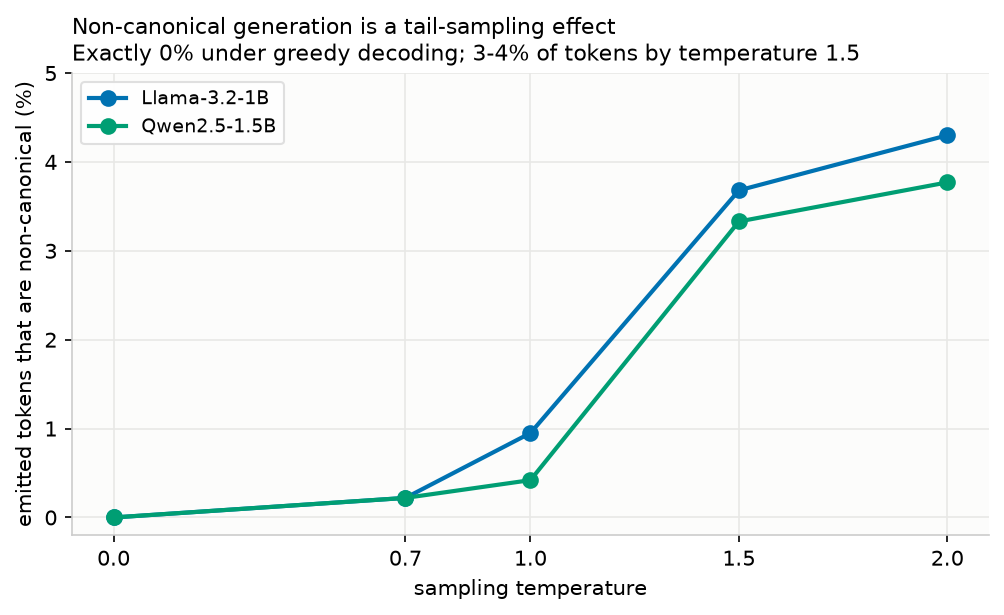
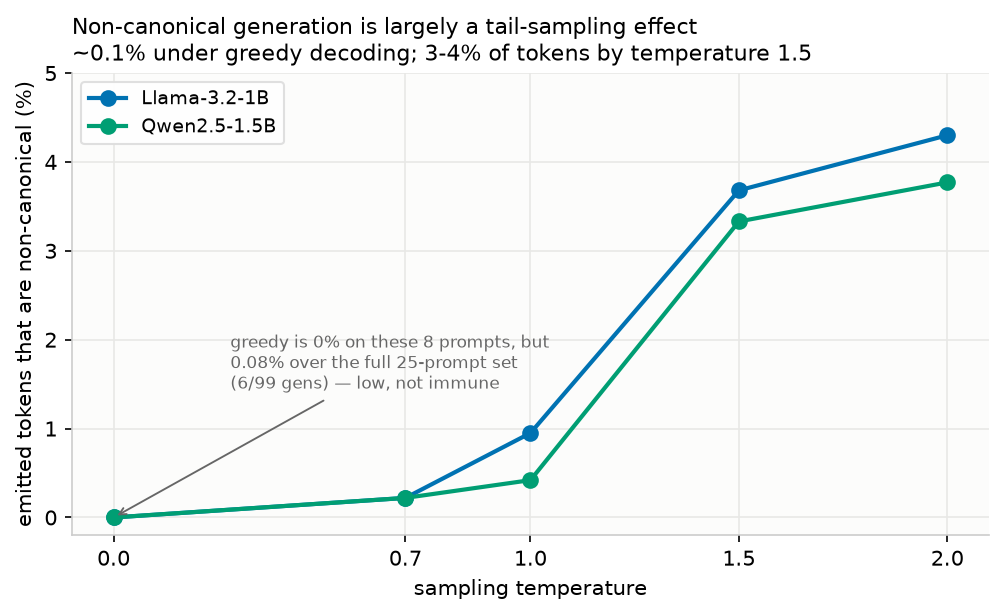
Greedy decoding is 0.08%, not 0%; resolve the conflicting records
Three of the open questions from the review are now settled by measurement
rather than by choosing between two versions of a record.

**"Exactly 0% under greedy decoding" was wrong.** That reading came from an
8-prompt subset (code[:4] + multilingual_latin[:4]), 1 deterministic generation
each, 2 models. Greedy is deterministic, so more samples cannot add evidence
there; only more prompts can. Re-run at argmax over the full 25-prompt set:
6 of 99 generations contain a non-canonical span, 0.08% of tokens pooled
(GPT-2 0.12%, Qwen 0.09%, Llama-3.2-1B 0.08%, Llama-3.2-3B 0.05%). The old
subset had no arithmetic prompts at all, which is exactly where GPT-2's greedy
hits are. Temperature still dominates (0.08% -> 0.4-1.0% -> 3-4%) but buys about
an order of magnitude, not immunity. Records published under greedy/ in the HF
dataset; the temperature figure now carries an annotation so its 0.0 points are
not read as a true zero.

phase2_probe hardcoded do_sample=True, so temperature 0 was unreachable. It now
branches explicitly and forces one generation per prompt when greedy.

**The width-sweep conflict is resolved against the published checkpoints.**
Re-evaluating them reproduces the appendix table row-for-row (dim=24 one-step
100% / direct 1.9%; dim=32 59.1% / 3.4%; dim=64 100% / 97.7%), so the go/no-go
section is undertrained and now marked superseded. Its "dim=64 direct-merged =
1%" claim does not hold — direct-merged is 97.7% there, which is why the claim
[…]

diff --git a/retok/figures.py b/retok/figures.py
@@ -191,7 +191,15 @@ def plot_scale_ladder(out_path: Path) -> None:
     print(f"Wrote {out_path}")
 
 
-# Temperature sweep (code+multilingual prompts, 48 gens/cell). See RESULTS.md.
+# Temperature sweep (code+multilingual prompts, 48 gens/cell; the temp-0 cell is
+# 8 deterministic gens, since greedy repeats). See RESULTS.md.
+#
+# NOTE the temp-0 zeros below are subset-limited, not a true zero: re-running
+# greedy over the full 25-prompt set finds 0.08% pooled across four models
+# (RESULTS.md, "Greedy decoding is NOT 0%"). The 8-prompt sweep set contains no
+# arithmetic prompts, which is where GPT-2's greedy hits are. Kept as measured
+# so this curve stays one internally-consistent experiment; the annotation on
+# the plot carries the correction.
 PHASE2_TEMPS = [0.0, 0.7, 1.0, 1.5, 2.0]
 # CONTROLLED (pure sampling). Per-generation here is fine: it's a within-model
 # comparison at FIXED generation length, so the length-saturation problem that
@@ -224,10 +232,21 @@ def plot_temperature(out_path: Path) -> None:
     ax.set_ylabel("emitted tokens that are non-canonical (%)")
     ax.set_ylim(-0.2, 5.0)
     ax.set_title(
-        "Non-canonical generation is a tail-sampling effect\n"
-        "Exactly 0% under greedy decoding; 3-4% of tokens by temperature 1.5",
+        "Non-canonical generation is largely a tail-sampling effect\n"
+        "~0.1% under greedy decoding; 3-4% of tokens by temperature 1.5",
         fontsize=10.5,
         loc="left",
+    )
+    # The 0.0 points read as an exact zero, which a wider prompt set refutes.
+    ax.annotate(
+        "greedy is 0% on these 8 prompts, but\n"
+        "0.08% over the full 25-prompt set\n"
+        "(6/99 gens) — low, not immune",
+        xy=(0.0, 0.0),
+        xytext=(0.28, 1.45),
+        fontsize=8.2,
+        color=MUTED,
+        arrowprops={"arrowstyle": "->", "color": MUTED, "linewidth": 0.9},
     )
     ax.legend(loc="upper left", framealpha=0.92, edgecolor="#dddddd", fontsize=9)
     ax.grid(True, color="#e8e8e6", linewidth=0.8, zorder=0)

diff --git a/retok/phase2_probe.py b/retok/phase2_probe.py
@@ -219,17 +219,30 @@ def probe(
             # nothing). Off-canonical tokens live in the tail, so inherited
             # truncation suppresses this metric by ~3x — a first-order
             # cross-model confound.
-            out = model.generate(
-                **enc,
-                max_new_tokens=max_new_tokens,
-                do_sample=True,
-                temperature=temperature,
-                top_k=0,
-                top_p=1.0,
-                repetition_penalty=1.0,
-                num_return_sequences=n_samples,
-                pad_token_id=tokenizer.eos_token_id,
-            )
+            # temperature=0 means greedy, which is deterministic: sampling
+            # params are meaningless and repeated draws are identical, so the
+            # only way to add evidence there is more prompts/models, not
+            # n_samples. (Greedy is NOT non-canonical-free — see RESULTS.md.)
+            if temperature == 0.0:
+                out = model.generate(
+                    **enc,
+                    max_new_tokens=max_new_tokens,
+                    do_sample=False,
+                    num_return_sequences=1,
+                    pad_token_id=tokenizer.eos_token_id,
+                )
+            else:
+                out = model.generate(
+                    **enc,
+                    max_new_tokens=max_new_tokens,
+                    do_sample=True,
+                    temperature=temperature,
+                    top_k=0,
+                    top_p=1.0,
+                    repetition_penalty=1.0,
+                    num_return_sequences=n_samples,
+                    pad_token_id=tokenizer.eos_token_id,
+                )
             for seq in out:
                 gen_ids = seq[prompt_len:].tolist()
                 # strip trailing pad/eos

diff --git a/RESULTS.md b/RESULTS.md
@@ -378,6 +378,43 @@ prefix text*:
   / 5%; multilingual-Cyrillic 25 / 64% / 4%; multilingual-CJK 35 / 49% / 0%;
   code 23 / 30% / 9%; english 4 / 25% / 0%; arithmetic 1 / 100% / 0% (n=1).
 
+### Greedy decoding is NOT 0% — correction (2026-08-17, `phase2_probe --temperature 0`)
+
+The earlier "exactly 0% under greedy decoding" came from `phase2_temperature`,
+whose prompt set is `PROMPTS["code"][:4] + PROMPTS["multilingual_latin"][:4]` —
+**8 prompts, 1 deterministic generation each, 2 models**. Greedy is
+deterministic, so `--n-samples` cannot add evidence there; only more prompts and
+more models can. Re-ran at argmax over the **full 25-prompt set**:
+
+Command (per model):
+
+```
+uv run python -m retok.phase2_probe --model <name> --dtype auto \
+    --n-samples 1 --max-new-tokens 200 --temperature 0.0 --seed 31 \
+    --jsonl-out data/retok/greedy/<name>.jsonl
+```
+
+(`phase2_probe` previously hardcoded `do_sample=True`; it now switches to
+`do_sample=False` at temperature 0 and forces 1 generation per prompt.)
+
+| model | gens with ≥1 span | per-token | where |
+|---|--:|--:|---|
+| GPT-2 | 2/24 | 0.12% | arithmetic (2/5 prompts) |
+| Llama-3.2-1B | 1/25 | 0.08% | code |
+| Qwen2.5-1.5B | 2/25 | 0.09% | Cyrillic, code |
+| Llama-3.2-3B | 1/25 | 0.05% | multilingual-Latin |
+| **pooled** | **6/99** | **0.08%** | |
+
+**So the model's own argmax continuation is sometimes a non-canonical token.**
+The original 8-prompt subset contained no arithmetic prompts at all, which is
+precisely where GPT-2's greedy hits are — a sampling-of-prompts artifact, not a
+sampling-of-tokens one. Temperature still dominates (0.08% → 0.4–1.0% → 3–4%),
+but it buys ~an order of magnitude, not immunity, and "turn the temperature
+down" is not a mitigation.
+
+Gemma-2-2b was skipped: as-released fp32 at 2B does not fit the 8 GB local card.
+Llama-3.1-8B and gpt-oss-20b likewise need a bigger GPU.
+
 ### Can a prompt *induce* non-canonical generation? (`phase2_induce`)
 
 Everything above is accidental — tokens sampled from the tail. This asks whether
@@ -497,7 +534,8 @@ Concrete boundaries (actual span | canonical span → predicted next token):
 
 **Honest magnitude:** real and measurable, but per-instance **small and mostly
 soft** — sub-1% of tokens, and most next-token flips are low-confidence near-ties
-or whitespace, with a thin tail (10% of the sparse boundaries, CI 6–15%) of
+or whitespace, with a thin tail (**4%** of the sparse boundaries, 6/149,
+CI 2–9%) of
 confident changes, of which only a minority are semantic. **Framing:** the toy carries the controlled mechanism +
 the hidden-computation/calibration claim; Phase 2 is the existence proof. The
 case for logging token IDs rests on *silent + near-zero mitigation cost + tail
@@ -505,6 +543,18 @@ risk on a span you can't identify in advance*, not on magnitude. Example
 galleries: `phase2_probe` / `phase2_interp` stdout.
 
 ### Go/no-go sweeps (local RTX 3060, direct `uv run`, results discarded)
+
+> **Superseded — do not cite the numbers in this section.** These are short
+> undertrained probes (6–8M examples) that preceded the official 15M sweep. Where
+> the two disagree, the official sweep (appendix table above) is authoritative:
+> re-evaluating the **published** checkpoints on 2026-08-17 reproduces the
+> appendix row-for-row (dim=24 one-step 100% / direct 1.9%; dim=32 one-step
+> 59.1% / direct 3.4%; dim=64 one-step 100% / direct **97.7%**), not the numbers
+> below. In particular the "Bonus (dim=64): direct-merged = 1%" claim does **not**
+> hold for the official runs — at dim=64 the merged form succeeds, which is
+> exactly why the headline claim is scoped to dim=16. The dim=32 one-step 59.5%
+> also *replicates* (59.1%), so it is a property of that checkpoint rather than
+> an eval fluke — though whether it is a training-seed outlier is still untested.
 
 A sequence of short local sweeps to find a task regime where CoT succeeds while
 direct one-step addition fails with carry-chain length. These drove three

diff --git a/WRITEUP.md b/WRITEUP.md
@@ -100,11 +100,18 @@ Three things stand out.
 **Language matters more than model.** English is near zero for every modern
 model; CJK reaches 5.2%. A single "multilingual" number would hide a ~8× spread within one model.
 
-**Temperature dominates everything.** Exactly **0% under greedy decoding**,
-**0.4–1.0%** of tokens at temperature 1.0, and **3–4%** by temperature 1.5 — a
-~4× jump for half a point of temperature. This is a tail-sampling phenomenon:
-models concentrate mass on the canonical continuation, and these tokens come out
-of the tail.
+**Temperature dominates everything.** **0.08%** of tokens under greedy
+decoding, **0.4–1.0%** at temperature 1.0, and **3–4%** by temperature 1.5 — a
+~4× jump for half a point of temperature. This is largely a tail-sampling
+phenomenon: models concentrate mass on the canonical continuation, and most of
+these tokens come out of the tail.
+
+But greedy is **not zero**, which we initially reported and had to retract. At
+argmax across 99 generations from four models, 6 still contained a non-canonical
+span — the model's *most likely* continuation is sometimes a non-canonical
+token. Our first reading of 0% came from an 8-prompt subset that happened to
+exclude arithmetic, which is exactly where GPT-2's greedy hits are (2 of 5
+prompts). Temperature buys you roughly an order of magnitude, not immunity.
 
 ![Non-canonical rate vs temperature](figures/phase2_temperature.png)
 
@@ -239,7 +246,7 @@ whether this stays a validity bug or becomes a channel, and we haven't run it.
   rate rests on a handful of events; we give raw counts and Wilson intervals
   rather than bare percentages, and the intervals are wide. Read the rates as
   order-of-magnitude. We got burned by this once already: an early Qwen reading
-  of 0% was 0-of-64 and did not survive re-measurement at n=504.
+  of 0% was 0-of-64 and did not survive re-measurement at n=300.
 - The **qualitative orderings** (temperature dependence, multilingual ≫ English,
   rate falling with scale) are what we'd defend; individual cells are not precise.
 - The interp-mismatch metric is a **next-token divergence at a boundary** — a
